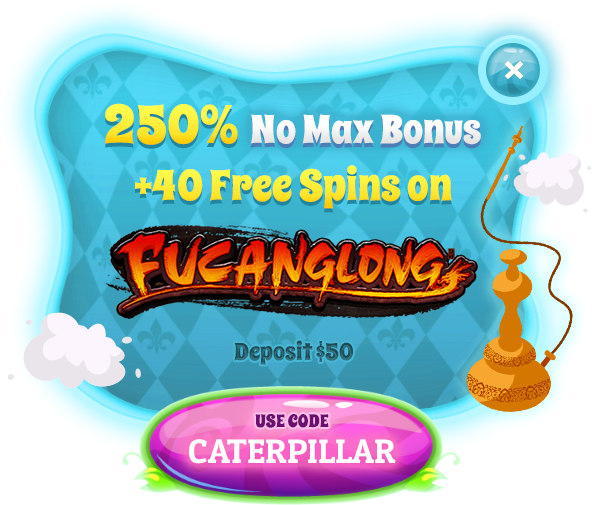
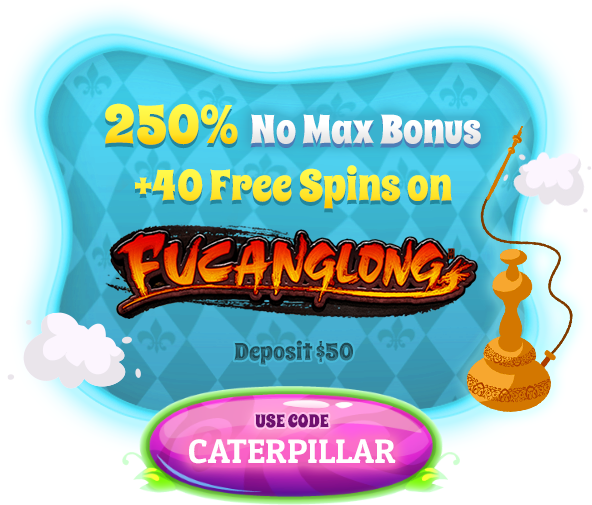
improve coupon popups

Changed region(s): [[0.7905, 0.0297, 0.973, 0.2079]]

diff --git a/src/data/characters.js b/src/data/characters.js
@@ -12,6 +12,13 @@ import aliceCoupon from '../images/coupons/alice.png';
 import cheshireCatCoupon from '../images/coupons/cheshireCat.png';
 import queenOfHeartsCoupon from '../images/coupons/queenOfHearts.png';
 
+import whiteRabbitCouponCloseButton from '../images/coupons/whiteRabbit-close.png';
+import caterpillarCouponCloseButton from '../images/coupons/caterpillar-close.png';
+import madHatterCouponCloseButton from '../images/coupons/madHatter-close.png';
+import aliceCouponCloseButton from '../images/coupons/alice-close.png';
+import cheshireCatCouponCloseButton from '../images/coupons/cheshireCat-close.png';
+import queenOfHeartsCouponCloseButton from '../images/coupons/queenOfHearts-close.png';
+
 const characters = [
   {
     id: 0,
@@ -21,6 +28,7 @@ const characters = [
     couponCode: '',
     deposit: '',
     couponImage: whiteRabbitCoupon,
+    couponCloseButton: whiteRabbitCouponCloseButton,
     couponUrl: 'someurl'
   },
   {
@@ -31,6 +39,7 @@ const characters = [
     couponCode: '',
     deposit: '',
     couponImage: caterpillarCoupon,
+    couponCloseButton: caterpillarCouponCloseButton,
     couponUrl: 'someurl'
   },
   {
@@ -41,6 +50,7 @@ const characters = [
     couponCode: 'MADHATTER',
     deposit: '$50',
     couponImage: madHatterCoupon,
+    couponCloseButton: madHatterCouponCloseButton,
     couponUrl: 'someurl'
   },
   {
@@ -51,6 +61,7 @@ const characters = [
     couponCode: '',
     deposit: '',
     couponImage: aliceCoupon,
+    couponCloseButton: aliceCouponCloseButton,
     couponUrl: 'someurl'
   },
   {
@@ -61,6 +72,7 @@ const characters = [
     couponCode: '',
     deposit: '',
     couponImage: cheshireCatCoupon,
+    couponCloseButton: cheshireCatCouponCloseButton,
     couponUrl: 'someurl'
   },
   {
@@ -71,6 +83,7 @@ const characters = [
     couponCode: '',
     deposit: '',
     couponImage: queenOfHeartsCoupon,
+    couponCloseButton: queenOfHeartsCouponCloseButton,
     couponUrl: 'someurl'
   }
 ];

diff --git a/src/pages/Homepage/index.js b/src/pages/Homepage/index.js
@@ -87,13 +87,10 @@ class Homepage extends Component {
                   {/* Left column end */}
 
                   {/* Center column start */}
-                  <Col className="d-block d-md-flex flex-column order-0 order-md-1 mt-3 mt-md-0">
-                    <Row className="flex-grow-1">
-                      <Col className="d-flex flex-column justify-content-center align-items-center">
-                        <a
-                          className="mb-2"
-                          href="https://www.silveroakcasino.com/"
-                        >
+                  <Col className="d-block d-md-flex flex-column order-0 order-md-1 mt-3">
+                    <Row className="flex-grow-1 flex-column">
+                      <Col className="d-flex flex-column justify-content-start align-items-center">
+                        <a href="https://www.silveroakcasino.com/">
                           <img
                             src={casinoLogo}
                             alt="Silver Oak"
@@ -107,10 +104,6 @@ class Homepage extends Component {
                         <p className="text-white text-center mt-1 mt-md-4 text--accent">
                           Click on a character to revea your Bonus.
                         </p>
-                      </Col>
-                    </Row>
-                    <Row className="flex-grow-1">
-                      <Col className="d-flex justify-content-center  homepage__character--main mx-auto">
                         <Character
                           onClick={() => {
                             characters.actions.showSingleCharacter(alice.id);

diff --git a/src/components/CouponModal/index.js b/src/components/CouponModal/index.js
@@ -11,19 +11,24 @@ import './index.scss';
 
 const CloseButton = styled.button`
   position: absolute;
-  top: 30px;
-  right: 30px;
-  width: 60px;
-  height: 60px;
-  background: black;
+  top: ${props => (props.exception ? '-7px' : 0)};
+  right: ${props => (props.exception ? '22px' : 0)};
+  width: 118px;
+  height: 118px;
+  padding: 0;
+  background: url(${props => props.backgroundImage}) center center / cover
+    no-repeat;
   border: none;
-  border-radius: 50%;
   outline: none;
+  &:active,
+  &:focus {
+    outline: none;
+  }
   @media (max-width: 576px) {
-    top: 7vw;
-    right: 5vw;
-    width: 10vw;
-    height: 10vw;
+    top: 0;
+    right: ${props => (props.exception ? '5vw' : 0)};
+    width: 20vw;
+    height: 20vw;
   }
 `;
 
@@ -38,7 +43,11 @@ class CouponModal extends React.Component {
               <a href={character.couponUrl}>
                 <img src={character.couponImage} alt={character.name} />
               </a>
-              <CloseButton onClick={characters.actions.hideSingleCharacter} />
+              <CloseButton
+                backgroundImage={character.couponCloseButton}
+                exception={character.name === 'White Rabbit'}
+                onClick={characters.actions.hideSingleCharacter}
+              />
             </Modal>
           );
         }}
